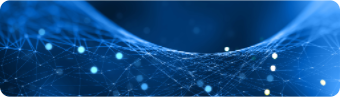
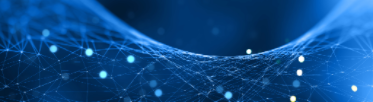
over

diff --git a/src/components/nav-bar/nav-bar.jsx b/src/components/nav-bar/nav-bar.jsx
@@ -1,4 +1,4 @@
-import React, { useState } from "react";
+import React, { useEffect, useState } from "react";
 import "./nav-bar.css";
 import { ReactComponent as Logo } from "../../assets/logo.svg";
 import { ReactComponent as ArrowDown } from "../../assets/icons/arrow-down.svg";
@@ -21,18 +21,13 @@ function NavBar() {
   const [menuDrop, setMenuDrop] = useState(false);
   const navigate = useNavigate();
 
-  const closeDrops = () => {
-    setMailsDrop(false);
-    setNotDrop(false);
-    setProfDrop(false);
-    setMenuDrop(false);
-  };
   const redirect = () => {
     navigate("/theme-search");
   };
 
   const [navMenu, setNavMenu] = useState(false);
   const [navMenuDrop, setNavMenuDrop] = useState(false);
+
   return (
     <>
       {navMenu ? (
@@ -127,7 +122,7 @@ function NavBar() {
                 <NavLink to="/">
                   <div
                     className="home_nav_link_link"
-                    onClick={() => setMenuDrop(true)}
+                    onMouseEnter={() => setMenuDrop(true)}
                   >
                     <p>Форумы</p>
                     <ArrowDown />
@@ -137,6 +132,8 @@ function NavBar() {
                   <div
                     className="home_nav_links_drop"
                     onClick={() => setMenuDrop(false)}
+                    onMouseEnter={() => setMenuDrop(true)}
+                    onMouseLeave={() => setMenuDrop(false)}
                   >
                     <NavLink to="/new-messages">
                       <p>Новые сообщения</p>
@@ -179,19 +176,20 @@ function NavBar() {
             <div className="nav_right_actions">
               <div className="nav_mails">
                 <div
-                  onClick={() => setMailsDrop(!mailsDrop)}
+                  onMouseEnter={() => setMailsDrop(true)}
                   className={
                     mailsDrop ? "nav_icon nav_icon_active" : "nav_icon"
                   }
                 >
-                  <Mail className="not_filled"/>
-                  <MailFilled className="filled_icon"/>
+                  <Mail className="not_filled" />
+                  <MailFilled className="filled_icon" />
                 </div>
 
                 {mailsDrop ? (
                   <div
                     className="nav_bar_drop"
-                    onClick={() => setMailsDrop(!mailsDrop)}
+                    onClick={() => setMailsDrop(false)}
+                    onMouseLeave={() => setMailsDrop(false)}
                   >
                     <div className="nav_bar_drop_title">
                       <p>Переписки</p>
@@ -218,18 +216,18 @@ function NavBar() {
               </div>
               <div className="nav_notifications">
                 <div
-                  onClick={() => setNotDrop(!notDrop)}
+                  onMouseEnter={() => setNotDrop(true)}
                   className={notDrop ? "nav_icon nav_icon_active" : "nav_icon"}
                 >
-                
-                  <Notification className="not_filled"/>
-                  <NotificationFilled className="filled_icon"/>
+                  <Notification className="not_filled" />
+                  <NotificationFilled className="filled_icon" />
                 </div>
 
                 {notDrop ? (
                   <div
                     className="nav_bar_drop nots_drop"
-                    onClick={() => setNotDrop(!notDrop)}
+                    onClick={() => setNotDrop(false)}
+                    onMouseLeave={() => setNotDrop(false)}
                   >
                     <div className="nav_bar_drop_title">
                       <p>Оповещения</p>
@@ -266,7 +264,7 @@ function NavBar() {
             <div className="nav_profile">
               <div
                 className="nav_profile_items"
-                onClick={() => setProfDrop(true)}
+                onMouseEnter={() => setProfDrop(true)}
               >
                 <img src={profile} alt="" />
                 <ArrowDownSec />
@@ -276,6 +274,7 @@ function NavBar() {
                 <div
                   className="nav_profile_drop"
                   onClick={() => setProfDrop(false)}
+                  onMouseLeave={() => setProfDrop(false)}
                 >
                   <div className="nav_profile_drop_links">
                     <p>0.0000000 BTC</p>
@@ -308,11 +307,6 @@ function NavBar() {
           </div>
         </div>
       </nav>
-      {mailsDrop || notDrop || profDrop || menuDrop ? (
-        <div className="overlay" onClick={closeDrops}></div>
-      ) : (
-        ""
-      )}
     </>
   );
 }

diff --git a/src/components/carousel/carousel.css b/src/components/carousel/carousel.css
@@ -2,9 +2,9 @@
   display: flex;
   align-items: center;
   justify-content: space-between;
-  padding: 8px;
+  padding: 6px 7px;
   border-radius: 10px;
-  gap: 10px;
+  gap: 5px;
 
   box-shadow: 0px 4px 20px 0px rgba(50, 94, 251, 0.2);
   background: rgb(255, 255, 255);
@@ -13,6 +13,13 @@
   cursor: pointer;
   width: 100%;
 }
+.carousel_wrapper img:nth-child(1) {
+  border-radius: 10px 0px 0px 10px;
+}
+.carousel_wrapper img:last-child {
+  border-radius: 0px 10px 10px 0px;
+}
+
 
 @media only screen and (max-width: 1550px) {
   .carousel_wrapper img {

diff --git a/src/components/nav-bar/nav-bar.css b/src/components/nav-bar/nav-bar.css
@@ -168,7 +168,7 @@ nav {
 }
 
 .nav_icon {
-  width: 42px;
+  width: 46px;
   height: 40px;
   border-radius: 10px;
   display: flex;
@@ -231,13 +231,15 @@ nav {
   position: relative;
 }
 .nav_profile_drop {
-  border-radius: 0px 0px 20px 20px;
+
   width: 200px;
   z-index: 112;
   position: absolute;
   top: 61px;
   right: 0;
-  box-shadow: 0px 0px 10px 0px rgba(58, 100, 250, 0.03);
+  border-radius: 0px 0px 20px 20px;
+
+  box-shadow: 0px 0px 16px 0px rgba(58, 100, 250, 0.03);
   background: rgb(255, 255, 255);
 }
 
